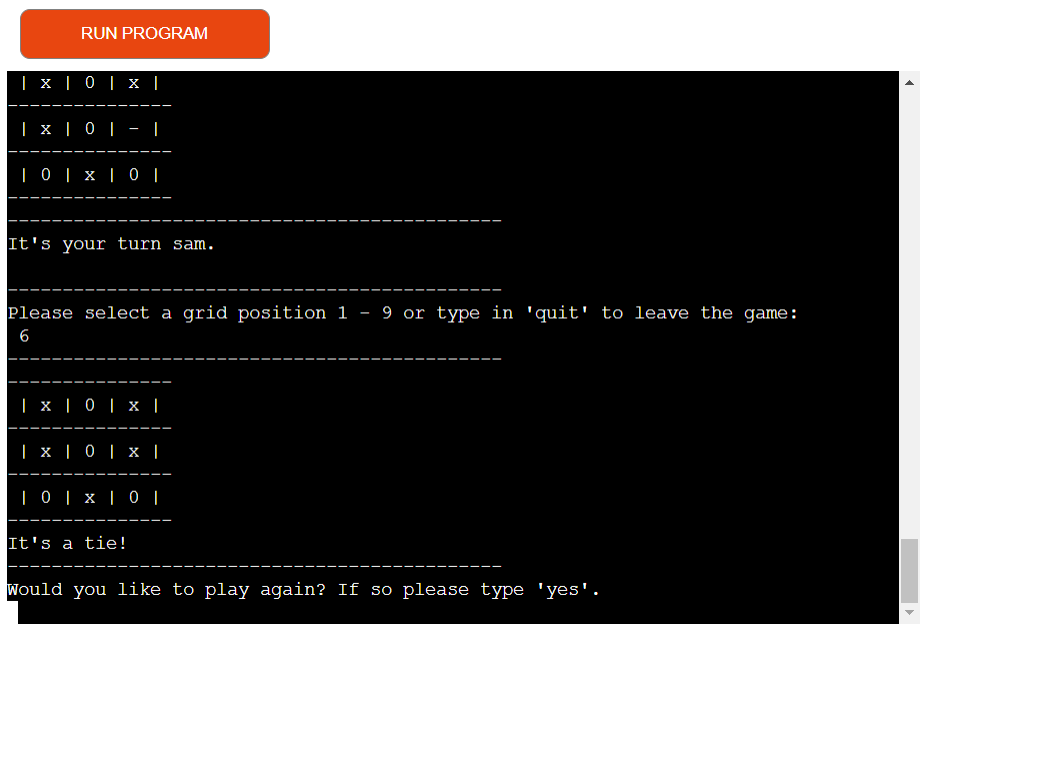
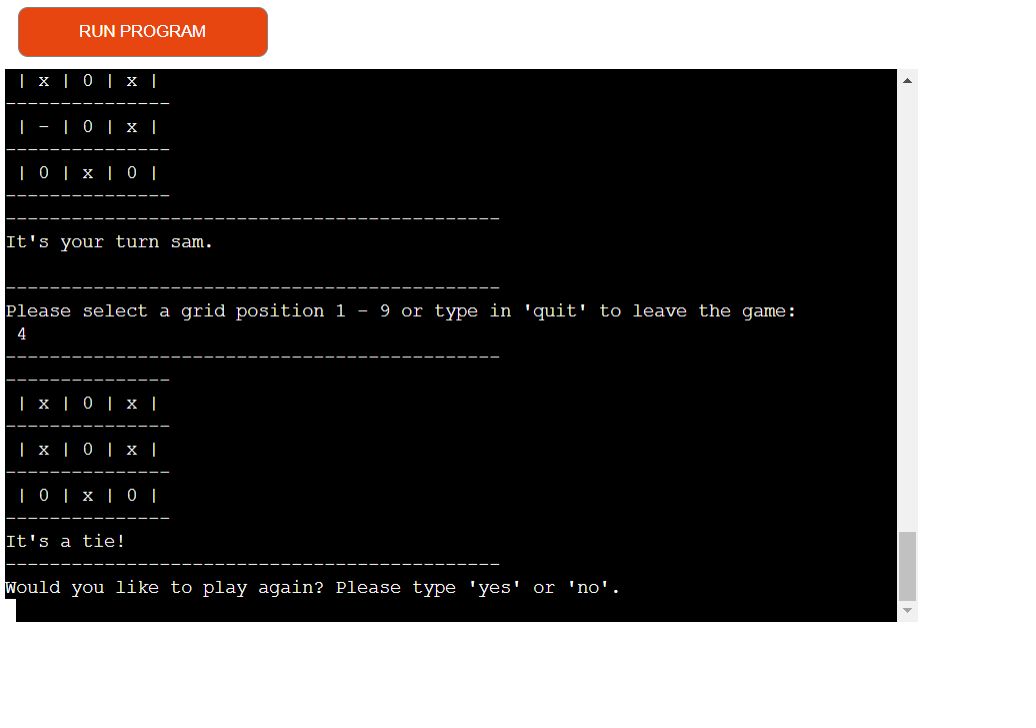
Update screenshots and descriptions in feature section of read me file now user must type yes or no to restart or end game

Changed region(s): [[0.0, 0.0907, 0.8958, 0.8764], [0.0, 0.0, 0.2471, 0.0604], [0.8649, 0.6951, 0.8958, 0.7555]]

diff --git a/README.md b/README.md
@@ -49,7 +49,7 @@ The console will inform the user that it's their turn and ask them to select a g
 
 Once the player has selected a position on the grid an 'x' will appear in that position. The computer will automatically will then take its turn and position a '0' randomly on the grid.
 
-The player will then be informed that it's their turn again and asked to select another position on the grid by entering a value between 1 and 9.
+The player will then be informed that it's their turn again and asked to select another position on the grid by entering a value between 1 and 9 or type in 'quit' to leave the game.
 This again must a whole number between 1 and 9 as an integer but cannot be a position already taken up by an 'x' or a '0' on the grid.
 
 ![Go again screenshot](assets/screenshots/go-again-screenshot.png)
@@ -66,11 +66,11 @@ If the player tries to enter text instead of a number, they will be informed tha
 
 ![Text error screenshot](assets/screenshots/text-error-screenshot.png)
 
-If the player is the first connect three in a row, column or diagonally the game will stop. A congratulations message will appear and the user will be asked if they would like to play again. To play again the user must type in 'yes' and the game will return to the original start. If anything else is typed in the game will be ended.
+If the player is the first connect three in a row, column or diagonally the game will stop. A congratulations message will appear and the user will be asked if they would like to play again. To play again the user must type in 'yes' and the game will return to the original start. If the user types in 'no' the game will end, anything else an error code will appear asking the user to try again and type in 'yes' or 'no'.
 
 ![Winner screenshot](assets/screenshots/winner-screenshot.png)
 
-If the player decides not to play again, a thanks for playing message will be displayed and the program will stop running.
+If the player decides not to play again and types in 'no', a thanks for playing message will be displayed and the program will stop running.
 
 ![Stop game screenshot](assets/screenshots/stop-game-screenshot.png)
 
